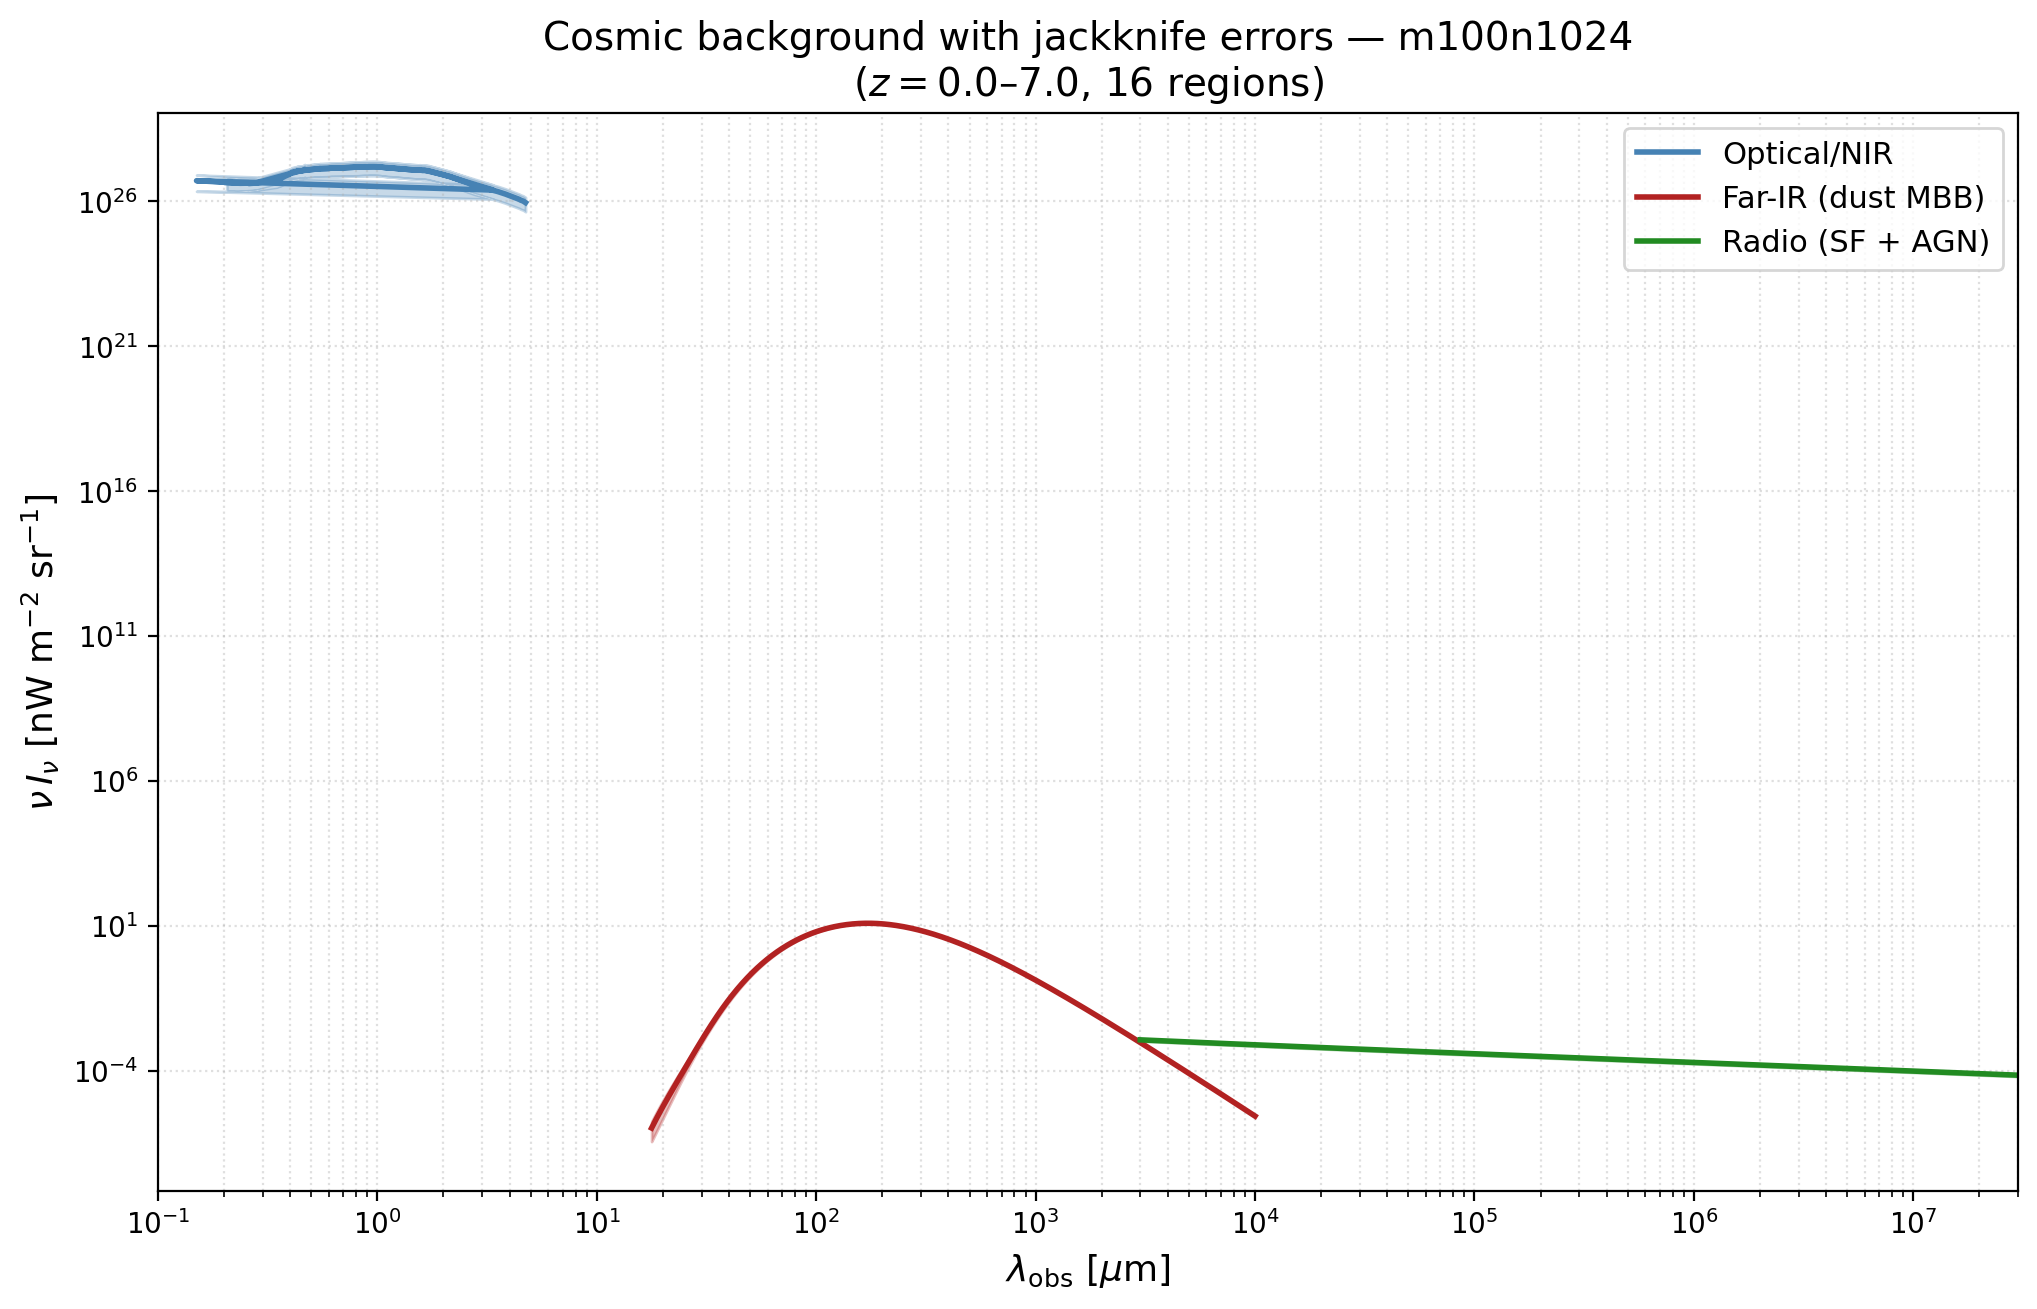
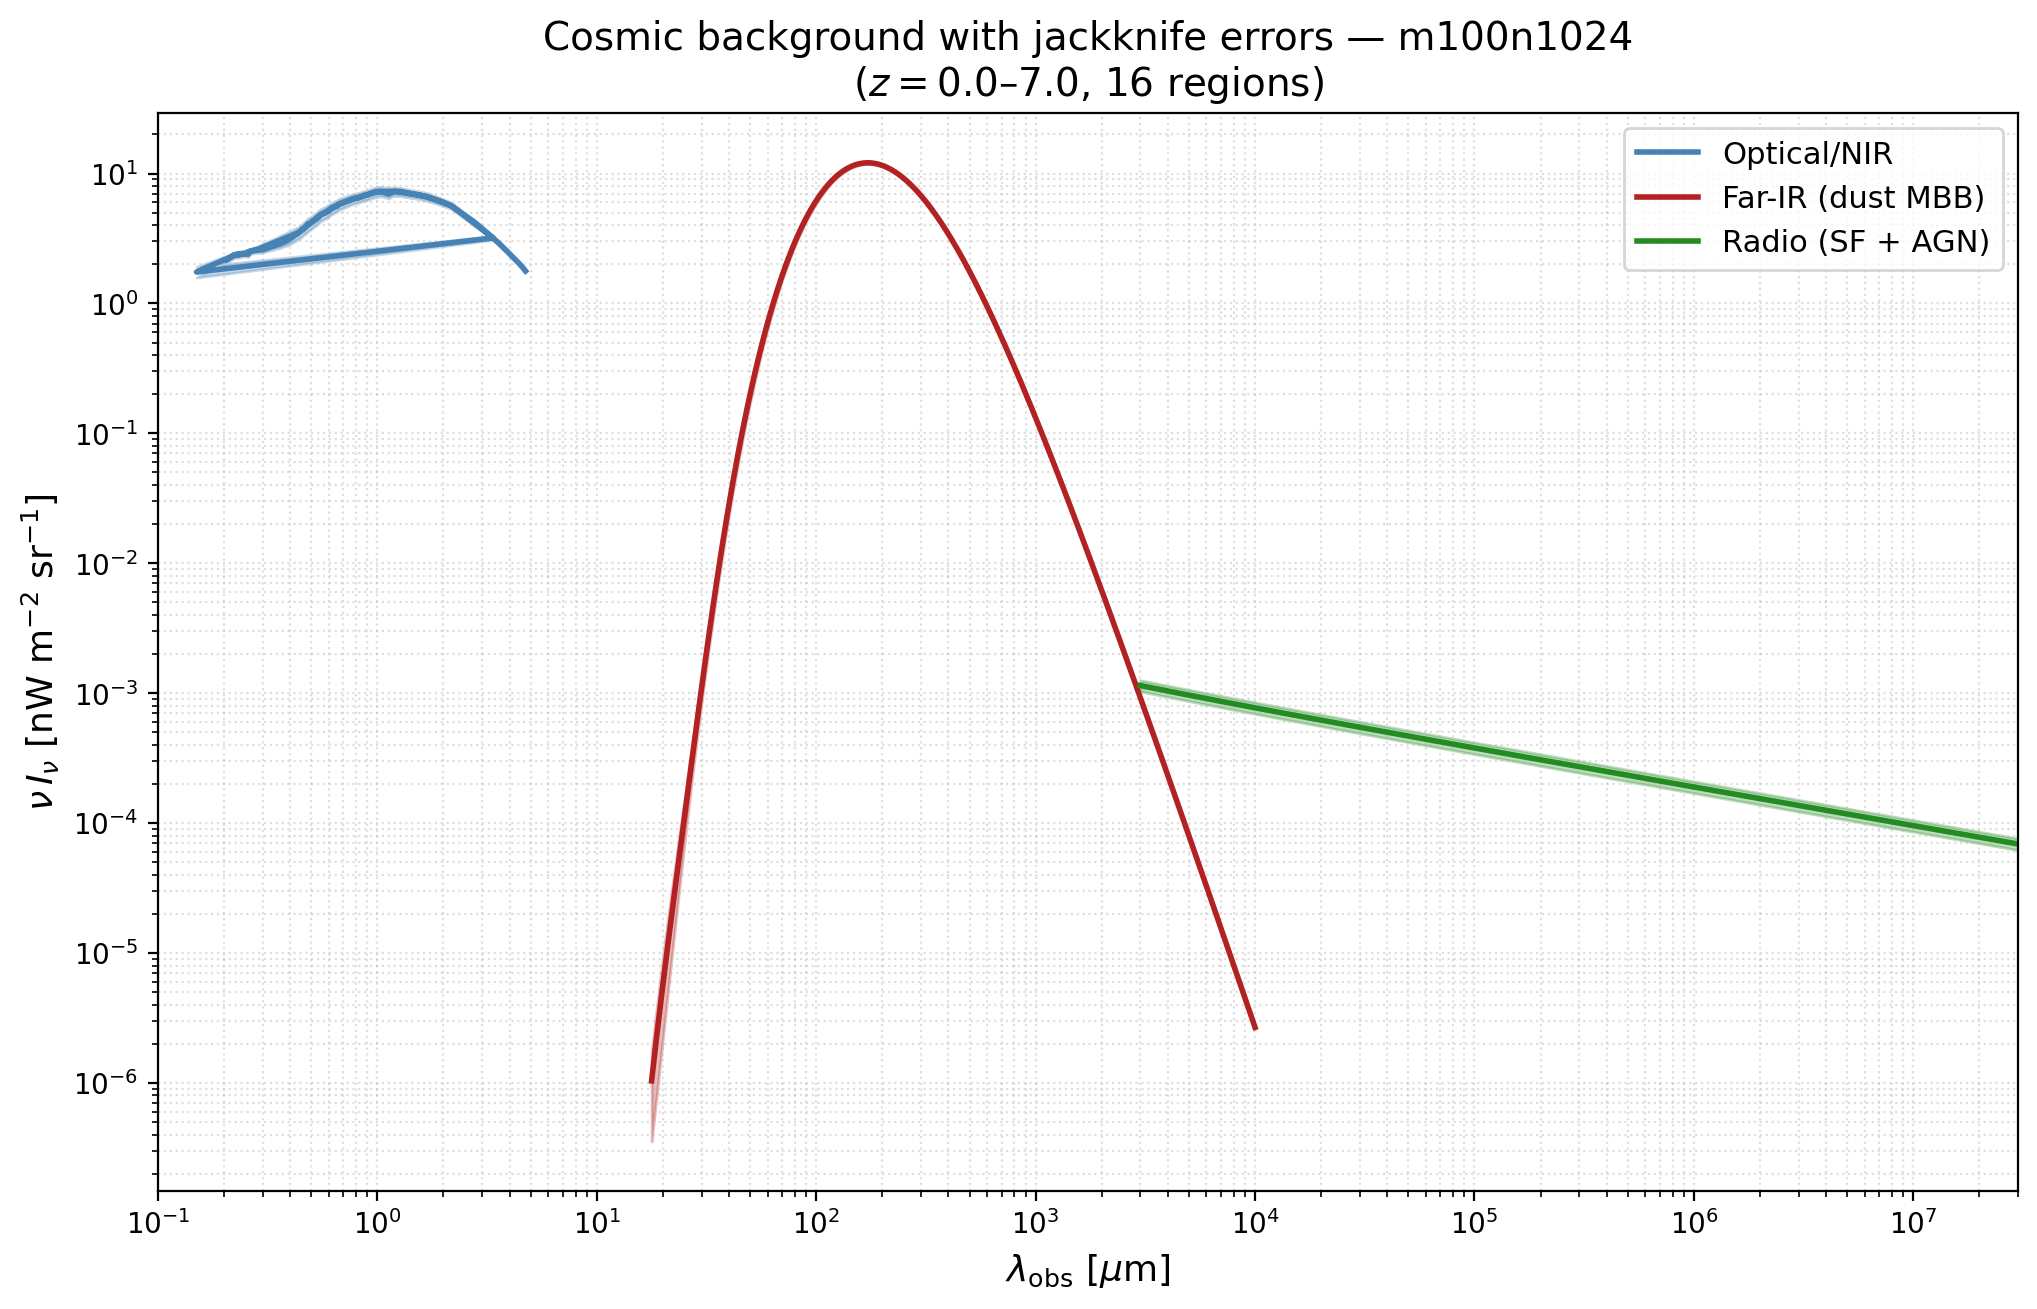
fixed jackknife code and code for light cone plots for report

diff --git a/scripts/plot_lightcone.py b/scripts/plot_lightcone.py
@@ -119,6 +119,46 @@ def load_lfir(data):
 
     return lfir
 
+def load_appmag_v(data):
+    """
+    Cross-reference snapshot catalogues to retrieve per-galaxy apparent magnitude in the 'v' filter.
+
+    Returns an array of apparent magnitudes (same length as the lightcone).
+    Galaxies for which appmag.v is unavailable are set to NaN.
+    """
+    n_gal = len(data["z"])
+    appmag_v = np.full(n_gal, np.nan)
+
+    snap_arr = data["snap"]
+    gal_idx = data["galaxy_index"]
+    key_name = "appmag.v"
+
+    cache = {}
+    for snap in np.unique(snap_arr):
+        snap = int(snap)
+        hdf5 = HDF5_DIR / f"{SNAP_PREFIX}_{snap:03d}.hdf5"
+        if not hdf5.exists():
+            hdf5 = HDF5_DIR / f"{SNAP_PREFIX}_{snap}.hdf5"
+        if not hdf5.exists():
+            print(f"  WARN: missing {hdf5}, skipping snap {snap}")
+            continue
+        with h5py.File(hdf5, "r") as f:
+            group = f["galaxy_data/dicts"]
+            if key_name not in group:
+                print(f"  WARN: {key_name} missing in snap {snap}, skipping")
+                continue
+            cache[snap] = group[key_name][:]
+
+    for i in range(n_gal):
+        s = int(snap_arr[i])
+        gi = int(gal_idx[i])
+        if s in cache and gi < len(cache[s]):
+            val = cache[s][gi]
+            if np.isfinite(val):
+                appmag_v[i] = val
+
+    return appmag_v
+
 def plot_lightcone_slice_appmag(data, app_mag, outpath, absmag_key="absmag.g"):
     """
     2D light-cone slice colored by apparent magnitude.
@@ -150,56 +190,117 @@ def plot_lightcone_slice_appmag(data, app_mag, outpath, absmag_key="absmag.g"):
     plt.close(fig)
     print(f"Saved: {outpath}")
 
-# ── Plot 2: 2-D light-cone slice ────────────────────────────────────────
-def plot_lightcone_slice(data, lfir, outpath):
+def plot_two_panel_wedge_with_redshift(data, appmag_v, lfir, outpath, random_seed=42, max_points=100000):
     """
-    Two-panel 2-D light-cone slice (comoving radial vs transverse distance).
+    Create a two-panel wedge diagram for the SIMBA light cone.
+    Panel 1: v-band apparent magnitude (optical)
+    Panel 2: log10(L_FIR / L_sun) (far-IR)
+    Both panels: x-axis is comoving radial distance [Mpc], secondary x-axis is redshift.
+    """
+    plt.style.use('dark_background')
 
-    Left  panel: points coloured by redshift.
-    Right panel: points coloured by L_FIR (galaxies without L_FIR are grey).
-    """
+    # Geometry
     z = data["z"]
     ra = data["ra"]
-
     d_radial = cosmo.comoving_distance(z).to("Mpc").value
     ra_centre = np.median(ra)
     delta_ra_rad = np.deg2rad(ra - ra_centre)
     d_transverse = delta_ra_rad * d_radial
 
-    y_lim = np.nanpercentile(np.abs(d_transverse), 99.5)
+    n_gal = len(z)
+    rng = np.random.default_rng(random_seed)
+    idx = rng.choice(n_gal, size=min(max_points, n_gal), replace=False)
 
-    fig, axes = plt.subplots(1, 1, figsize=(16, 6))
+    # Subsampled arrays
+    d_radial_sub = d_radial[idx]
+    d_transverse_sub = d_transverse[idx]
+    appmag_v_sub = appmag_v[idx]
+    lfir_sub = lfir[idx]
+    z_sub = z[idx]
 
-    # ── left: coloured by redshift ───────────────────────────────────────
-    im0 = axes.scatter(
-        d_radial, d_transverse, s=0.5, alpha=0.6,
-        c=z, cmap="plasma", vmin=0, vmax=z.max(),
-        rasterized=True,
-    )
-    cb0 = fig.colorbar(im0, ax=axes, pad=0.02)
-    cb0.set_label("Redshift $z$", fontsize=11)
-    axes.set_xlabel("Comoving radial distance [Mpc]", fontsize=11)
-    axes.set_ylabel("Comoving transverse distance [Mpc]", fontsize=11)
-    axes.set_ylim(-y_lim, y_lim)
-    axes.set_title("Number of Galaxies Coloured by Redshift", fontsize=12)
+    # Panel 1: v-band apparent magnitude
+    vmin_v = np.nanpercentile(appmag_v_sub, 1)
+    vmax_v = np.nanpercentile(appmag_v_sub, 99)
 
+    # Panel 2: log10(L_FIR / L_sun)
+    lfir_log = np.log10(lfir_sub)
+    lfir_log[~np.isfinite(lfir_log)] = np.nan
+    vmin_lfir = np.nanpercentile(lfir_log, 2)
+    vmax_lfir = np.nanpercentile(lfir_log, 98)
+
+    # Shared axis limits
+    y_lim = np.nanpercentile(np.abs(d_transverse_sub), 99.5)
+    x_lim = [np.nanmin(d_radial_sub), np.nanmax(d_radial_sub)]
+
+    fig, axes = plt.subplots(2, 1, figsize=(10, 10), sharex=True, sharey=True)
+    panels = [
+        {
+            "c": appmag_v_sub,
+            "cmap": "viridis_r",
+            "vmin": vmin_v,
+            "vmax": vmax_v,
+            "label": "v-band apparent magnitude",
+            "panel_label": "(a)"
+        },
+        {
+            "c": lfir_log,
+            "cmap": "inferno",
+            "vmin": vmin_lfir,
+            "vmax": vmax_lfir,
+            "label": r"$\log_{10}(L_\mathrm{FIR} / L_\odot)$",
+            "panel_label": "(b)"
+        }
+    ]
+
+    for i, ax in enumerate(axes):
+        im = ax.scatter(
+            d_radial_sub, d_transverse_sub, s=0.5, alpha=0.3,
+            c=panels[i]["c"], cmap=panels[i]["cmap"],
+            vmin=panels[i]["vmin"], vmax=panels[i]["vmax"],
+            rasterized=True
+        )
+        cb = fig.colorbar(im, ax=ax, pad=0.02)
+        cb.set_label(panels[i]["label"], fontsize=11)
+        ax.set_ylim(-y_lim, y_lim)
+        ax.set_xlim(x_lim)
+        ax.text(0.01, 0.95, panels[i]["panel_label"], transform=ax.transAxes,
+                fontsize=14, fontweight="bold", va="top", ha="left")
+        if i == 0:
+            ax.set_ylabel("Comoving transverse distance [Mpc]", fontsize=12)
+        if i == 1:
+            ax.set_xlabel("Comoving radial distance [Mpc]", fontsize=12)
+            # Add secondary x-axis for redshift
+            secax = ax.secondary_xaxis('top')
+            # Map comoving distance to redshift using interpolation
+            sorted_idx = np.argsort(d_radial)
+            d_radial_sorted = d_radial[sorted_idx]
+            z_sorted = z[sorted_idx]
+            def comoving_to_z(x):
+                return np.interp(x, d_radial_sorted, z_sorted)
+            def z_to_comoving(zval):
+                return np.interp(zval, z_sorted, d_radial_sorted)
+            
+            secax.set_functions((comoving_to_z, z_to_comoving))
+            secax.set_xlabel("Redshift $z$", fontsize=12)
+            secax.set_xlim(x_lim)
+            z_ticks = [0.5, 1, 2, 3, 4, 5, 6, 7]
+            comoving_ticks = [z_to_comoving(z) for z in z_ticks]
+            secax.set_xticks(comoving_ticks)
+            secax.set_xticklabels([f"{z:.1f}" for z in z_ticks])
+            
     fig.suptitle(
-        f"SIMBA light cone 2-D slice  "
-        f"($N_{{\\mathrm{{gal}}}} = {len(z):,}$)",
-        fontsize=14,
+        f"SIMBA light cone — $N_\\text{{gal}} = {n_gal:,}$",
+        fontsize=16, y=0.98
     )
-    fig.tight_layout(rect=[0, 0, 1, 0.95])
+    fig.tight_layout(rect=[0, 0, 1, 0.96])
     fig.savefig(outpath, dpi=200, bbox_inches="tight")
     plt.close(fig)
     print(f"Saved: {outpath}")
 
-# ─────────────────────────────────────────────────────────────────────────
-if __name__ == "__main__":
-    data = load_lightcone(LC_FILE)
-    print("Loading apparent magnitude from snapshot catalogues …")
-    app_mag = load_app_mag(data, filter_name="g")  # or "r", "i", etc.
-    plot_lightcone_slice_appmag(
-        data, app_mag,
-        FIG_DIR / "lightcone_slice_appmag_g.png",
-        absmag_key="appmag.g"
-    )
+data = load_lightcone(LC_FILE)
+appmag_v = load_appmag_v(data)
+lfir = load_lfir(data)
+plot_two_panel_wedge_with_redshift(
+    data, appmag_v, lfir,
+    FIG_DIR / "lightcone_wedge_two_panel.png"
+)

diff --git a/src/backgrounds/optical.py b/src/backgrounds/optical.py
@@ -12,7 +12,7 @@ from src.config import SimConfig
 from src.lightcone.generate import generate_lightcone
 
 LIGHTCONE_DIR = Path(__file__).resolve().parent.parent.parent / "data" / "lightcones"
-SKIP_SNAPS = {000}
+SKIP_SNAPS = {150, 151}
 
 LSUN_ERG_S = 3.828e33  # erg/s
 
@@ -26,7 +26,7 @@ def compute_summed_sed_from_appmags(hdf5_path, mask=None):
             mags = f[f"galaxy_data/dicts/{k}"][:]
             if mask is not None:
                 mags = mags[mask]
-            fnu_jy = 3631.0 * 10 ** (-mags / 2.5) 
+            fnu_jy = 3631.0 * 10 ** (-mags / 2.5)
             filt = k.split("appmag.")[-1]
             
             try:
@@ -58,7 +58,7 @@ def compute_summed_sed_from_absmags(hdf5_path, mask=None):
             mags = f[f"galaxy_data/dicts/{k}"][:]
             if mask is not None:
                 mags = mags[mask]
-            fnu_jy = 3631.0 * 10 ** (-mags / 2.5)  # Convert to Jy at 10 pc
+            fnu_jy = 3631.0 * 10 ** (-mags / 2.5)
             filt = k.split("absmag.")[-1]
             
             try:
@@ -133,17 +133,10 @@ def build_lightcone(cfg, area_deg2=1.0, z_min=0.0, z_max=3.0):
     return lc_path
 
 
-def lightcone_optical_background(cfg, area_deg2=1.0, z_min=0.0, z_max=3.0,
-                                  galaxy_mask=None):
+def lightcone_optical_background(cfg, area_deg2=0.5, z_min=0.0, z_max=7.0, galaxy_mask = None):
     """
     Compute the optical/near-IR cosmic background intensity using
     Caesar's pre-computed apparent magnitudes (with and without dust).
-
-    Parameters
-    ----------
-    galaxy_mask : array-like, optional
-        Boolean mask of same length as lightcone galaxies. If provided,
-        only galaxies where mask is True are included. Used for jackknife.
 
     Returns
     -------
@@ -158,12 +151,15 @@ def lightcone_optical_background(cfg, area_deg2=1.0, z_min=0.0, z_max=3.0,
         snap_arr = lc["snap"][:]
         gal_idx = lc["galaxy_index"][:]
 
-    # Apply galaxy mask if provided
+    # Apply galaxy mask if provided for jackknife error sampling
     if galaxy_mask is not None:
         galaxy_mask = np.asarray(galaxy_mask)
         if len(galaxy_mask) != len(gal_z):
             raise ValueError(f"galaxy_mask length ({len(galaxy_mask)}) != "
                            f"lightcone length ({len(gal_z)})")
+        gal_z = gal_z[galaxy_mask]
+        snap_arr = snap_arr[galaxy_mask]
+        gal_idx = gal_idx[galaxy_mask]
     else:
         galaxy_mask = np.ones(len(gal_z), dtype=bool)
 
@@ -172,7 +168,7 @@ def lightcone_optical_background(cfg, area_deg2=1.0, z_min=0.0, z_max=3.0,
     # We'll accumulate flux at each filter's effective wavelength
     # First pass: figure out which filters are available
     unique_snaps = np.unique(snap_arr)
-
+    
     # Get filter list from first valid snapshot
     filter_info = {}  # filter_name -> (nu_Hz, lam_AA)
     for snap in unique_snaps:
@@ -212,26 +208,24 @@ def lightcone_optical_background(cfg, area_deg2=1.0, z_min=0.0, z_max=3.0,
     # Cache HDF5 data per snapshot
     cache = {}
 
-    print(f"Processing {galaxy_mask.sum()} galaxies across "
+    print(f"Processing {len(gal_z)} galaxies across "
           f"{len(unique_snaps)} snapshots …")
 
     for snap in unique_snaps:
-        snap_int = int(snap)
-        if snap_int in SKIP_SNAPS:
+        snap = int(snap)
+        if snap in SKIP_SNAPS:
             continue
 
-        smask = (snap_arr == snap_int) & galaxy_mask
-        
-        hdf5 = cfg.hdf5_path(snap_int)
+        smask = snap_arr == snap
+        hdf5 = cfg.hdf5_path(snap)
         if not hdf5.exists():
-            print(f"  WARN: missing {hdf5}, skipping snap {snap_int}")
+            print(f"  WARN: missing {hdf5}, skipping snap {snap}")
             continue
 
-        if snap_int not in cache:
+        if snap not in cache:
             with h5py.File(hdf5, "r") as f:
                 mags = {}
                 mags_nodust = {}
-
                 for filt in filters_sorted:
                     key = f"galaxy_data/dicts/appmag.{filt}"
                     key_nd = f"galaxy_data/dicts/appmag_nodust.{filt}"
@@ -239,47 +233,32 @@ def lightcone_optical_background(cfg, area_deg2=1.0, z_min=0.0, z_max=3.0,
                         mags[filt] = f[key][:]
                     if key_nd in f:
                         mags_nodust[filt] = f[key_nd][:]
-            cache[snap_int] = (mags, mags_nodust)
+            cache[snap] = (mags, mags_nodust)
 
-        mags, mags_nodust = cache[snap_int]
+        mags, mags_nodust = cache[snap]
+        n_gals = len(mags[filters_sorted[0]]) if filters_sorted[0] in mags else 0
 
-        # Vectorised approach: extract all valid galaxy indices at once
-        # Filter out any NaN or invalid indices before casting to int
-        raw_idx = gal_idx[smask]
-        valid_mask = np.isfinite(raw_idx) & (raw_idx >= 0)
-        g_idx = raw_idx[valid_mask].astype(int)
+        print(f"  snap {snap}: {smask.sum()} lightcone galaxies")
 
-        if len(g_idx) == 0:
-            continue
+        for gi in gal_idx[smask]:
+            gi = int(gi)
+            if gi >= n_gals:
+                continue
 
-        for i, filt in enumerate(filters_sorted):
-            # --- WITH DUST ---
-            if filt in mags:
-                mag_arr = mags[filt]
-                # Safety check: ensure indices are within valid bounds (both >= 0 and < len)
-                valid_idx = g_idx[(g_idx >= 0) & (g_idx < len(mag_arr))]
+            for i, filt in enumerate(filters_sorted):
+                # With dust
+                if filt in mags:
+                    mag = mags[filt][gi]
+                    if np.isfinite(mag):
+                        fnu_jy = 3631.0 * 10 ** (-mag / 2.5)
+                        total_fnu[i] += fnu_jy
 
-                if len(valid_idx) > 0:
-                    m = mag_arr[valid_idx]
-
-                    valid_mags = np.isfinite(m) & (m < 90.0)
-
-                    if np.any(valid_mags):
-                        fnu_jy = 3631.0 * 10 ** (-m[valid_mags] / 2.5)
-                        total_fnu[i] += np.nansum(fnu_jy)
-
-            # --- WITHOUT DUST ---
-            if filt in mags_nodust:
-                mag_arr_nd = mags_nodust[filt]
-                valid_idx_nd = g_idx[(g_idx >= 0) & (g_idx < len(mag_arr_nd))]
-
-                if len(valid_idx_nd) > 0:
-                    m_nd = mag_arr_nd[valid_idx_nd]
-                    valid_mags_nd = np.isfinite(m_nd) & (m_nd < 90.0)
-
-                    if np.any(valid_mags_nd):
-                        fnu_jy_nd = 3631.0 * 10 ** (-m_nd[valid_mags_nd] / 2.5)
-                        total_fnu_nodust[i] += np.nansum(fnu_jy_nd)
+                # Without dust
+                if filt in mags_nodust:
+                    mag_nd = mags_nodust[filt][gi]
+                    if np.isfinite(mag_nd):
+                        fnu_jy_nd = 3631.0 * 10 ** (-mag_nd / 2.5)
+                        total_fnu_nodust[i] += fnu_jy_nd
 
     # Convert Jy to cgs: 1 Jy = 1e-23 erg/s/cm²/Hz
     total_fnu_cgs = total_fnu * 1e-23
